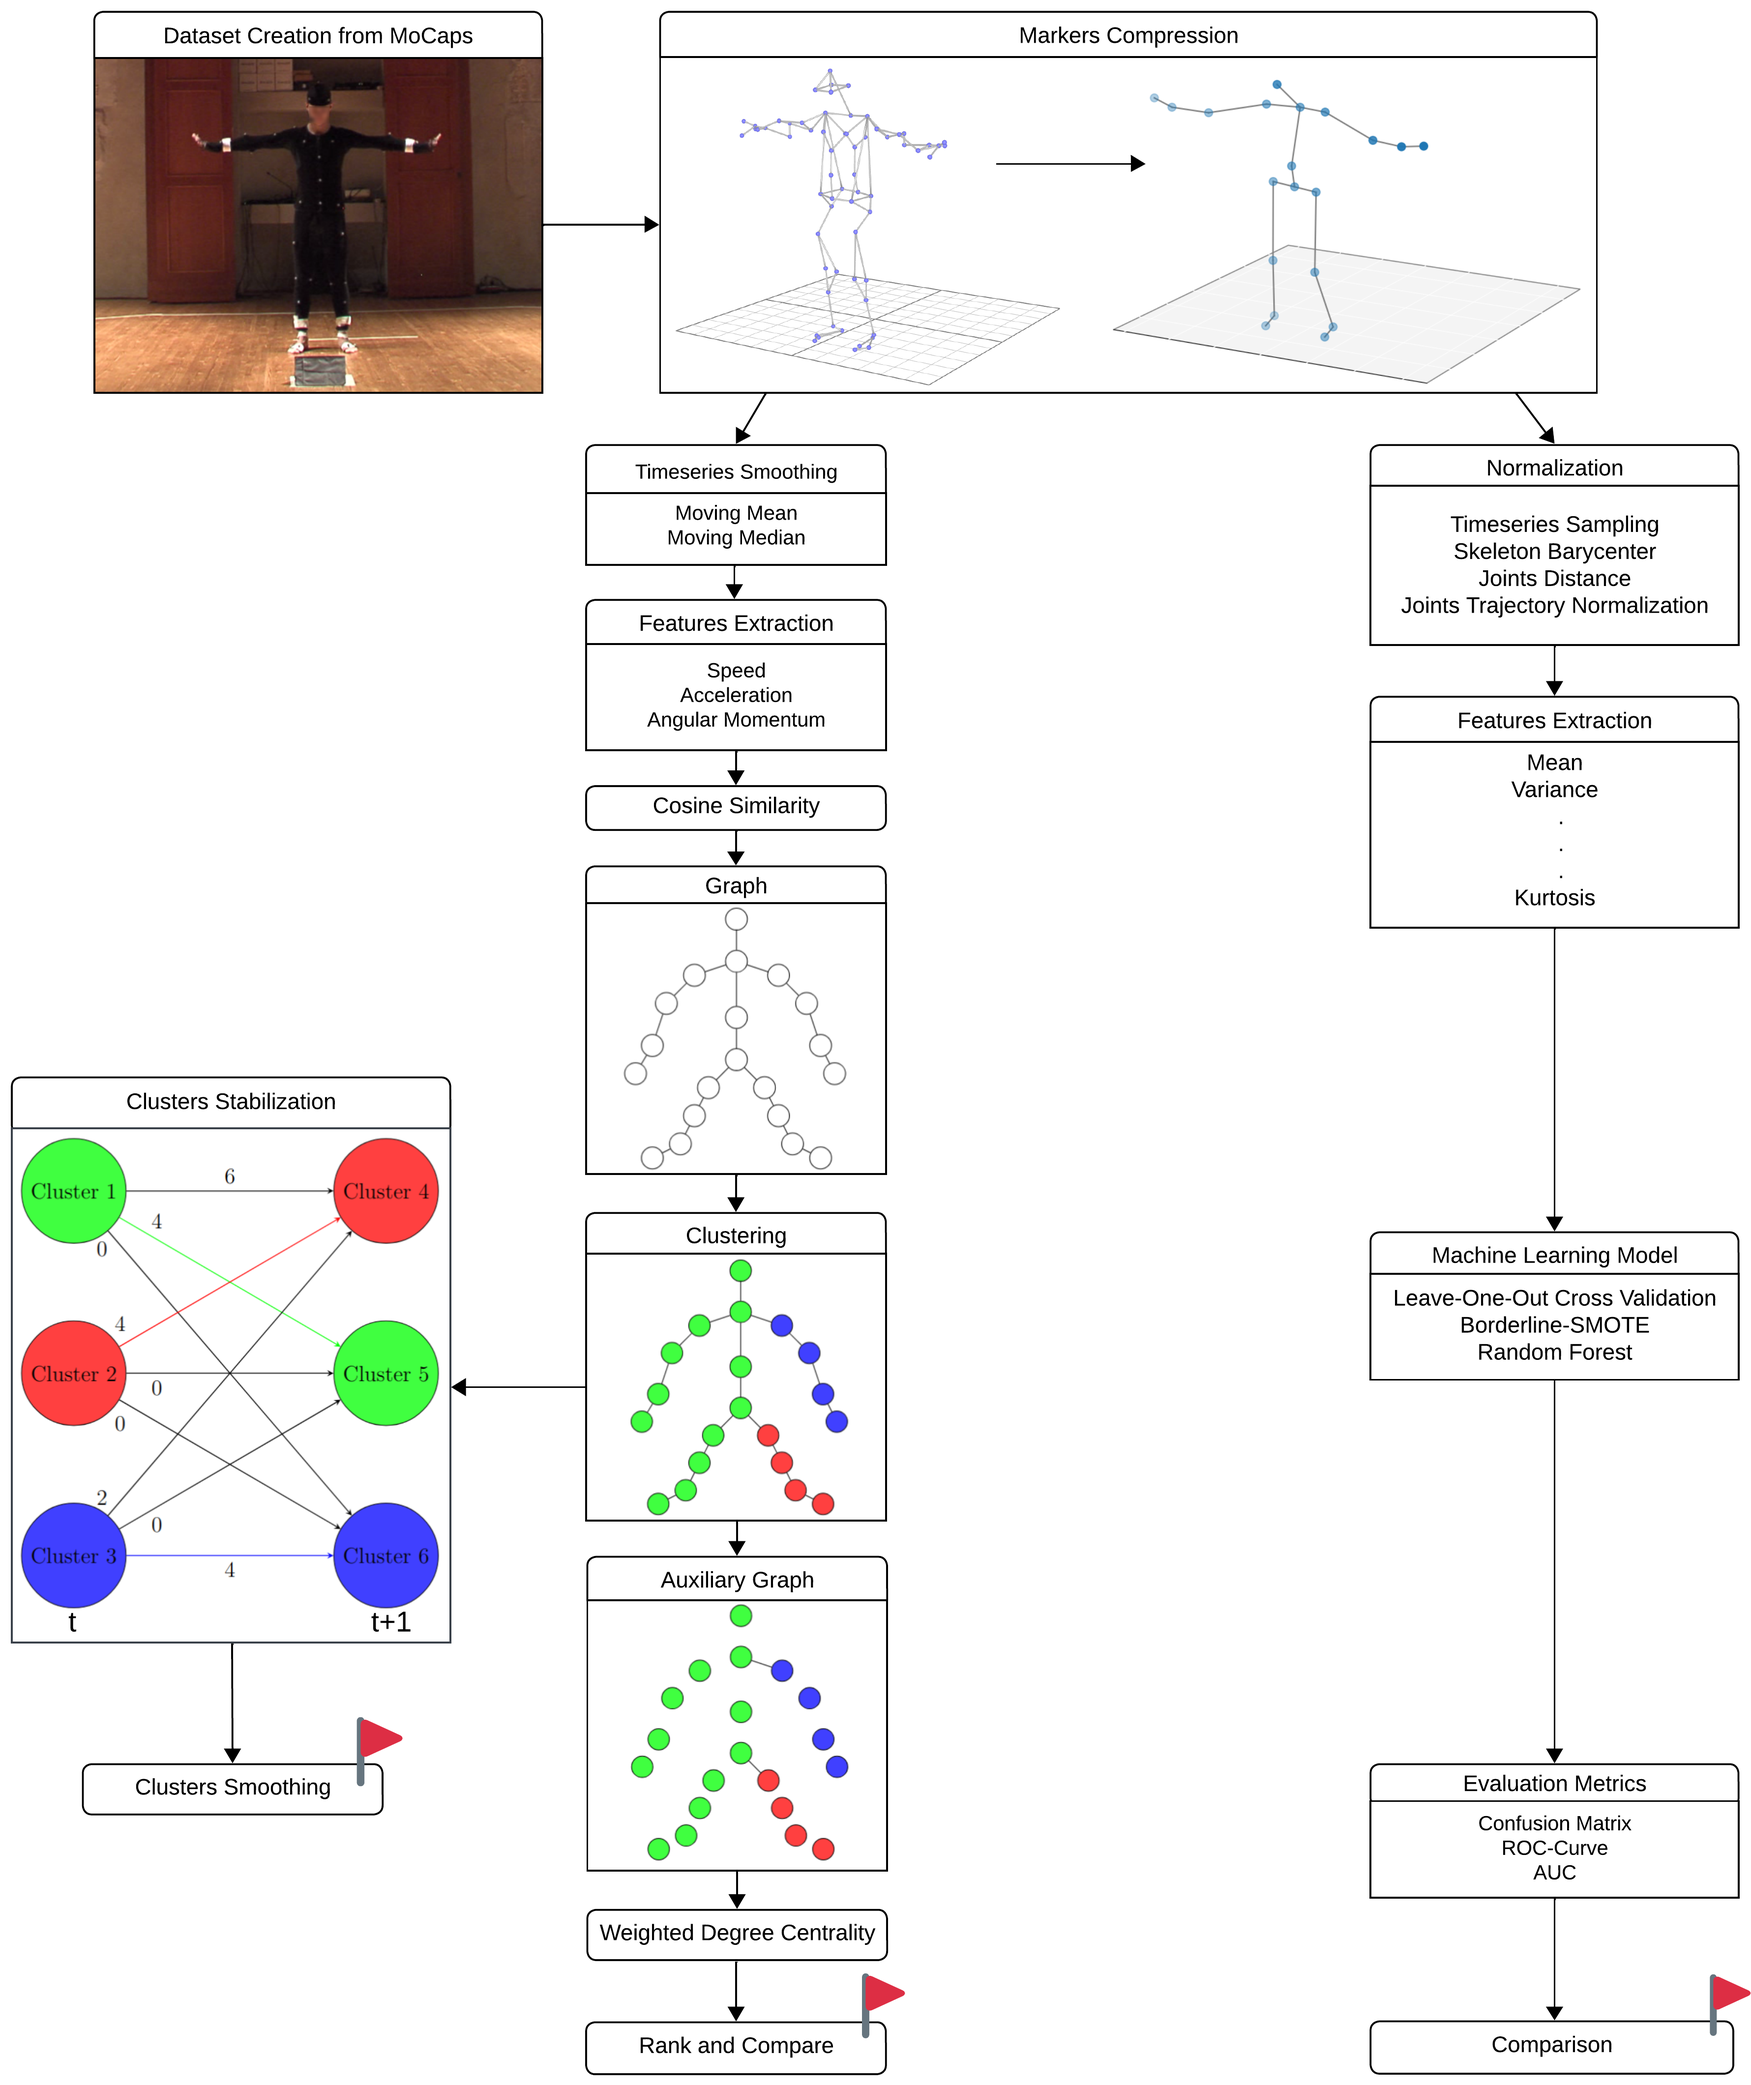
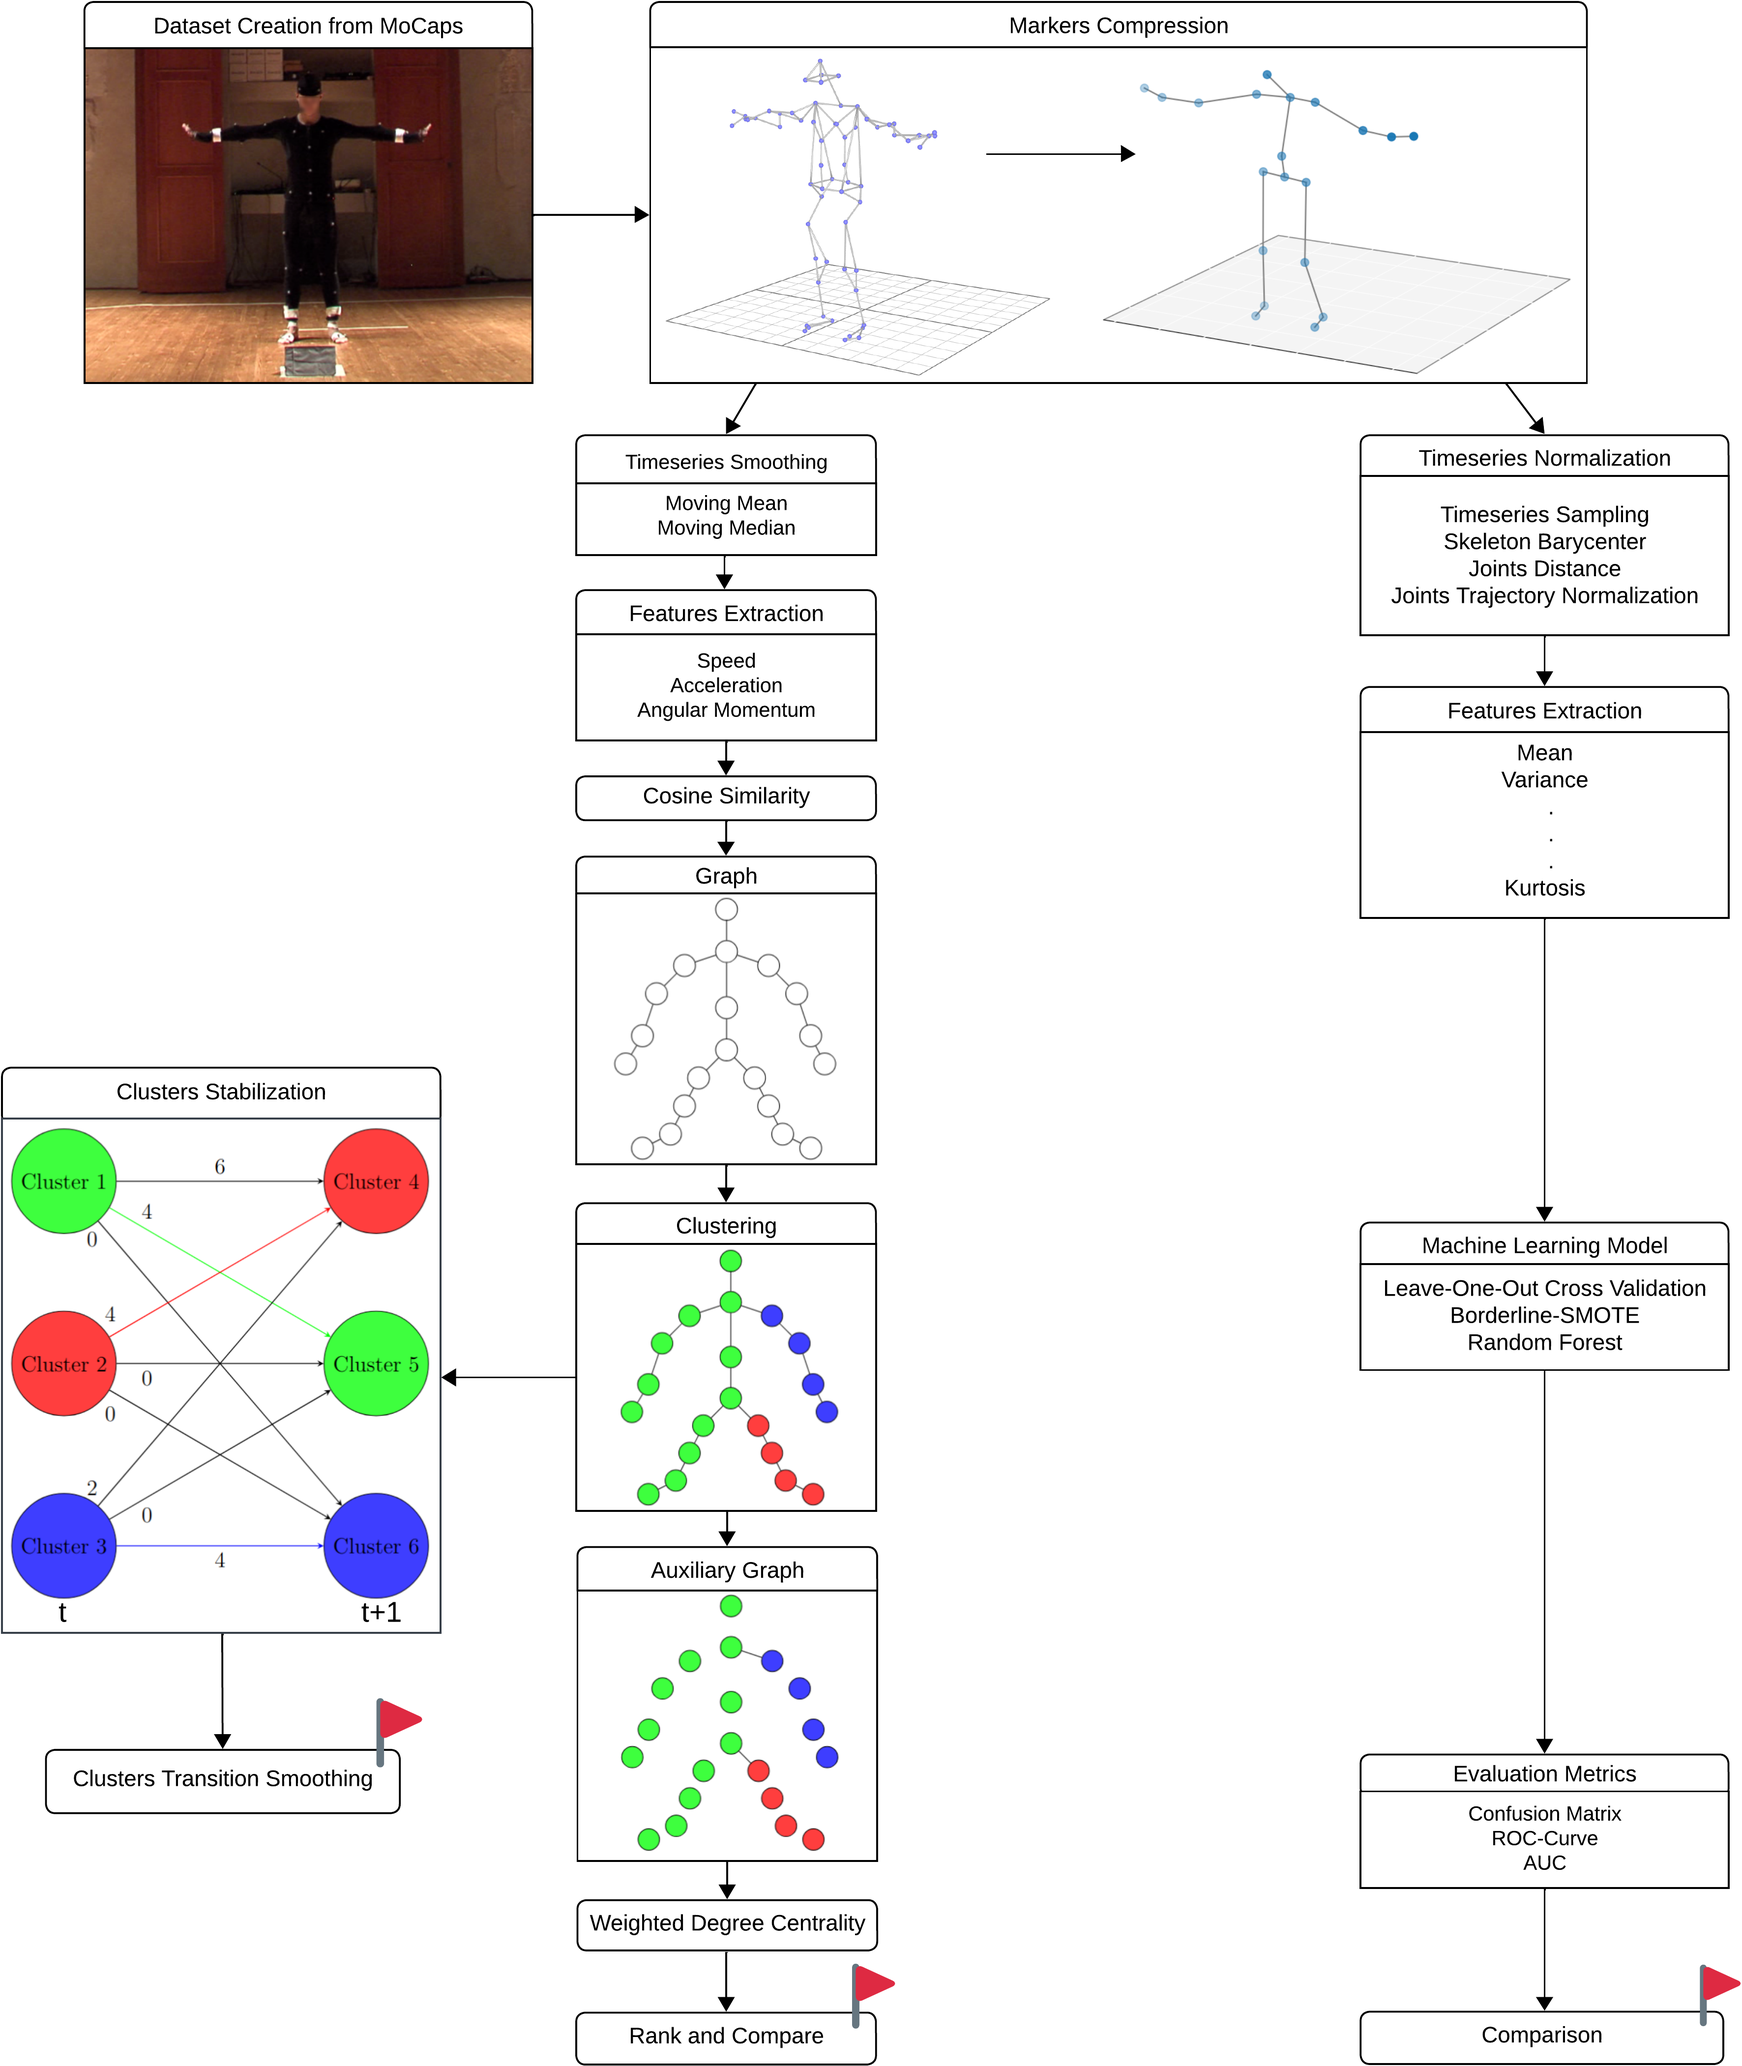
dataset proposition and walkthrough

diff --git a/docs/thesis/chapters/proposition.tex b/docs/thesis/chapters/proposition.tex
@@ -1,68 +1,68 @@
 \chapter{Proposed Approach}
+Our work commenced with an analysis of the paper by Kolykhalova et al. \cite{kolykhalova:2020} and its subsequent implementation in the publication by Matthiopoulou et al. \cite{inproceedings_matteopropoli}, 
+retaining some aspects of the previous research while introducing a different and more comprehensive approach for predicting movement origins using machine learning.\\
 
-Our work builds upon certain aspects of the previous research while introducing a novel and more innovative method for predicting movement origins using machine learning. 
-Similar to the previous approach, the pipeline to reach the 20-joints skeleton remains the same (see Sections \ref{sec:orig_markers}, \ref{sec:reduced_markers}).
+We developed for visualization purposes a method to prevent inconsistent coloring behaviours among clusters over time, by introducing a novel cluster stabilization algorithm.\\
+This can aid in visualization to identify any potential origins of movement.\\
 
-We chose to utilize a subset of the previous dataset (the one used in \cite{kolykhalova:2020}), and also increase the number of samples by manually annotating videos from other internal resources provided by Casa Paganini \cite{casaPaganini}.\\ 
-This choice has been motivated by the necessity to have many short samples that clearly present an origin of movement instead of few samples that are hard to infer in terms of origin of movement, in order to 
-reach a high-quality data that can be used in machine learning techniques that will be explained in Section \ref{sec:ml_method}.\\
+Another improvement made was to retrieve and expand the previous dataset using movement fragments. 
+We chose to utilize a subset of the previous dataset, and also increase the number of samples by manually annotating videos from other internal resources provided by Casa Paganini \cite{casaPaganini}.\\ 
+This choice has been motivated by the necessity to have many short samples that clearly present an origin of movement instead of few samples that are hard to infer in terms of origin of movement. 
+This approach aimed to achieve high-quality data suitable for implementation in machine learning techniques for pure classification purposes.\\
+\\
+The step forward we bring compared to the previous work is that, starting from a robust ground truth, we explored two different types of classification algorithms.
+Compared to the previous work, we will be able to perform a classification that is not mediated by the consensus of multiple participants but rather focuses on automating the process.
 
-Another modification we made to the previous work was to compare two similarity measurement methods: the one implemented in the original work and Cosine Similarity (explained in Section \ref{subsec:cosine_sim}).
-Furthermore, we simplified the game theory to a simple weighted degree centrality to expedite the pipeline and avoid calculating $20!$ coalitions.
-Finally, we shifted the validation of fragments to the beginning of the pipeline, using a multi-step validation mechanism between expert and non-expert annotators. 
+\paragraph{Roadmap}
+From the starting point of the previous work, we re-implemented and modified the approach based on graphs and improved the whole framework introducing a novel machine learning-based pipeline.
+
+The first part of our work was done from an algorithmic perspective to enhance the existing method.
+A modification we made to the previous work was to compare two similarity measurement methods: the one implemented in the original work and Cosine Similarity (explained in Section \ref{subsec:cosine_sim}).\\
+Furthermore, we simplified the Game Theory to a simple WDC to expedite the pipeline and avoid calculating $20!$ coalitions.\\
+We shifted the validation of fragments to the beginning of the pipeline, using a multi-step validation mechanism between expert and non-expert annotators. 
 This was done to minimize the potential effects of biases that could have been introduced into the model we would subsequently use.
-TODO DECIDERE SE COENS KAPPA
-Furthermore for visualization purposes we implemented a method to prevent inconsistent coloring behaviours among clusters over time, by introducing a novel cluster stabilization algorithm. 
 
-\section{Roadmap}
-From the starting point of our work \cite{kolykhalova:2020}, we re-implemented, improved and modified it to compare the method for identifying the origin of movement obtained based on graphs with our new machine learning-based approach.
+The second part of our work concerns the development of a machine learning approach to achieve classification of the origin of movement, not just perceived but actual. 
+We focused extensively on the dataset to attain a robust method for automatic recognition.\\
+
 The roadmap of this thesis can be outlined as follows: \\
-The dataset was initially acquired through manual annotation of movement origins in numerous MoCap videos. 
-The results were validated by achieving consensus among multiple annotators. 
-Additionally, markers for videos lacking previous labeling were manually assigned and subsequently compressed into clusters.
-The central objectives of this thesis encompass the development of three main objectives.\\
-A \textbf{Cluster Stabilization Algorithm} which ensure that clusters representing groups of related markers or joints, maintain their consistency and coherence over time.
+The manual annotation was performed through an agreement between us, two non-expert annotators, followed by an initial filtering by a third independent non-expert annotator.
+Finally, the last filtering was applied by an expert performer.
+So the final dataset was composed by only those samples that received consensus among all the annotators.
+\\
+Our work encompass the reaching of three main objectives.\\
+A \textbf{Cluster Transistion Smoothing Algorithm} which ensure that clusters representing groups of related markers or joints, maintain their consistency and coherence over time.
 This first one is just for visualization purposes and does not implement a classification method that can be compared with the others.\\
 A \textbf{Graph-based Procedure} to recognize the Origin of Movement by identifying key nodes that play pivotal roles in the motion analysis using an algorithmic method that has been handcrafted for this dataset.\\
 A \textbf{Machine Learning Model} that perform the same classification task as the previous, but automatically recognizes patterns within the data, without explicitly coding them by hand.
 
-Given the multifaceted objectives, two parallel pipelines were developed.\\
-The algorithmic pipeline encompasses several more steps than the other. 
-Initially, we smooth the time series of each sample of movement in order to clean the data from impurities such as noise, missing data for markers occlusion or tracking errors that could end up creating unnatural accelerations of some markers. 
-Subsequently, we extract physical derived measurements from the trajectories, like the speed, acceleration and angular momentum from the smoothed data. 
-Then, employing a model of human body joints, we apply cosine similarity to connected pairs of joints. 
-This aids in clustering joints within each movement frame. 
-The primary aim at this stage is to ensure the stability of color changes within these clusters. 
-Additionally, we construct a secondary graph, where nodes at cluster borders are interconnected and weighted based on their connections across all frames.
+Considering the multifaceted objectives, two parallel pipelines were developed, with the compression procedure of the markers being the only common aspect inherited from the previous work.
+\\
+From now we will refer to the Figure \ref{fig:walktrough} for the steps.
+The algorithmic pipeline (on the left) encompasses several more steps than the other (on the right). 
+\\
+Initially, we smooth the time series of each sample of movement in order to clean the data from impurities such as noise, missing data for markers occlusion or tracking errors that could end up creating unnatural accelerations of some markers (Timeseries Smoothing).
 
-The machine learning pipeline follows a different approach on the data. 
-We start by normalizing the dataset concerning segment length, the performer's body structure (Skeleton Barycenter and Joints Distance), and the complete movement trajectory. 
-Following this, we extract a diverse set of pertinent features from this normalized dataset. These extracted features are then utilized to train a machine learning model, whose performance is thoroughly evaluated using diverse metrics.
+Subsequently, we extract physical derived measurements from the trajectories, like the speed, acceleration and angular momentum from the smoothed data (Features Extraction). \\
+Then, employing a model of human body joints, we apply cosine similarity to connected pairs of joints (Cosine Similarity). 
+This aids in clustering joints within each movement frame. \\
+The primary aim at this stage is to ensure the stability of color changes within these clusters. \\
+Additionally, we construct a secondary graph, where only nodes at cluster borders are interconnected (Auxiliary Graph).
+These nodes are weighted based on their connections and ranked across all frames (Weighted Degree Centrality).
 
-Eventually, the outcomes from each pipeline are compared and contrasted to discern their respective effectiveness.
+The machine learning pipeline (on the right) follows a different approach on the data. 
+We start by normalizing the dataset concerning segment length, the performer's body structure, and the complete movement trajectory (Timeseries Normalization).\\
+Following this, we extract a diverse set of pertinent features from this set of normalized timeseries (Features Extraction).\\
+These extracted features are then utilized to train a machine learning model (Machine Learning Model), whose performance is thoroughly evaluated using diverse metrics (Evaluation Metrics).
 
-The first pipeline is composed of 
-\begin{itemize}
-    \item Smoothing the time series of each movement using two classical smoothing algorithms.
-    \item Extracting physical measurements from the smoothed data.
-    \item Applying cosine similarity to pairs of joints linked by arcs based on a model of physical joints in the human body.
-    \item Clustering joints for each frame of the movement.
-    \item The primary objective here was the temporal stabilization of cluster color changes.
-    \item Formation of a second graph with nodes at cluster borders, connected to other clusters. These nodes are weighted based on their connections and ranked across all frames.
-\end{itemize}
-The second pipeline involved:
-\begin{itemize}
-    \item Normalizing the dataset in terms of segment length (Time series Sampling), performer's body structure (Skeleton Barycenter and Joints Distance), and the entire trajectory of the movement.
-    \item Extracting a wide range of relevant features from the normalized dataset.
-    \item Using these features to train a machine learning model.
-    \item Evaluating the model's performance using various metrics.
-\end{itemize}
-Finally, the results from each pipeline are compared.
+Finally, the results from each pipeline are compared and contrasted to evaluate their individual effectiveness.
 
 \clearpage
 \begin{figure}[H]
     \centering
+    \vspace*{\fill}
     \includegraphics[width=\textwidth,height=\textheight,keepaspectratio]{Walkthrough.png}
     \caption{Roadmap of this Thesis}
     \label{fig:walktrough}
+    \vspace*{\fill}
 \end{figure}

diff --git a/docs/thesis/chapters/dataset.tex b/docs/thesis/chapters/dataset.tex
@@ -1,10 +1,9 @@
 \chapter{Dataset and Marker Set}
 A critical phase in our research is the creation of a relevant and high-quality dataset, 
 as the quality of the dataset can significantly impact the outcomes of our research efforts.
-Here, we detail the technological methodology used to collect the dataset and its constituents.
+Here, we detail the methodology used to collect the dataset and its constituents.
 Our primary objective is to develop an automated method for detecting the initiation of full-body human movements and identifying the most effective predictive movement features.
 Central to this research is capturing motion dynamics accurately.
-Thus, we require technology for efficient bodily movement capture, like the MoCap.
 The participation of these skilled dancers is crucial because their deep knowledge of body mechanics leads to precise and high-quality motion data.
 This collaboration yields expressive movements with distinct starting points, aligning with research goals.
 Their expertise increases dataset quality, providing a resource that encapsulates human motion intricacies accurately and artistically.
